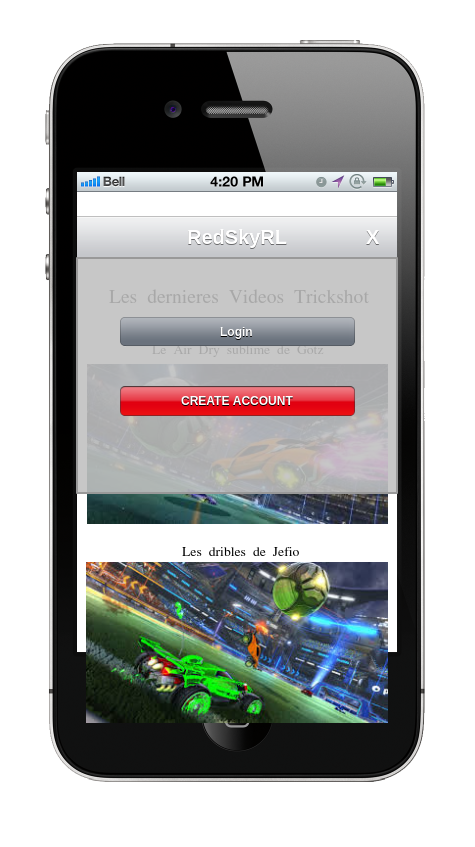
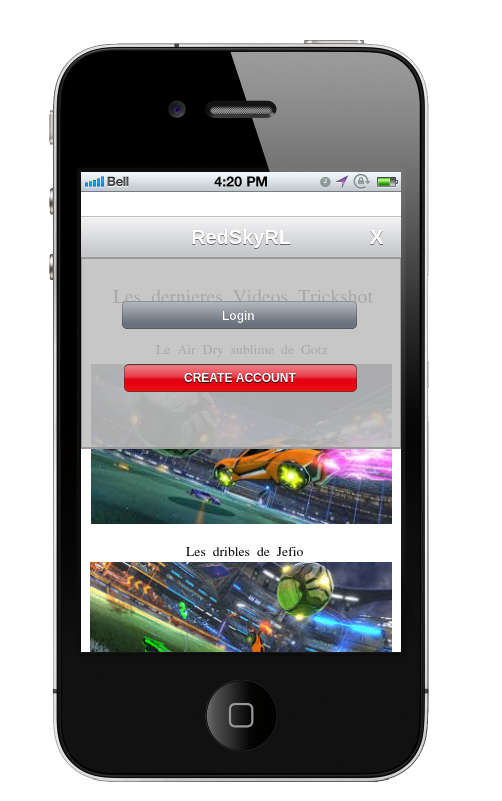
remake maquette

diff --git a/README.md b/README.md
@@ -63,7 +63,7 @@ Have fun Enjoy !
 ## Burger menu ouvert une fois cliquer
 ![Maquettes Menu Déroulant](www/public/assets/img/BurgerDeco.jpg)
 ## Burger menu ouvert une fois connecter et cliquer
-![Maquettes Menu Déroulant Connecter](www/public/assets/img/Deroulantconnecter.jpg)
+![Maquettes Menu Déroulant Connecter](www/public/assets/img/BurgerCo.jpg)
 ## Page connexion
 ![Maquettes Connexion](www/public/assets/img/connexion.jpg)
 ## Page inscription
